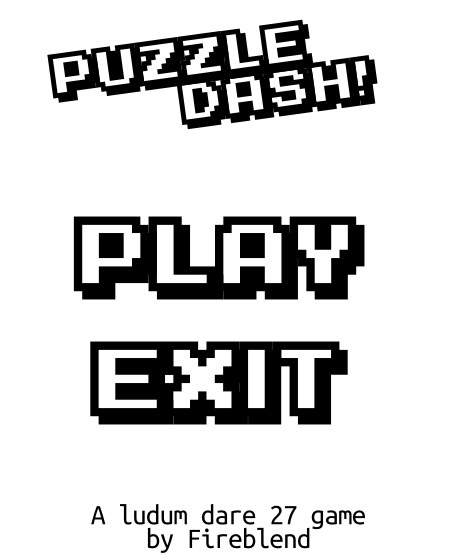
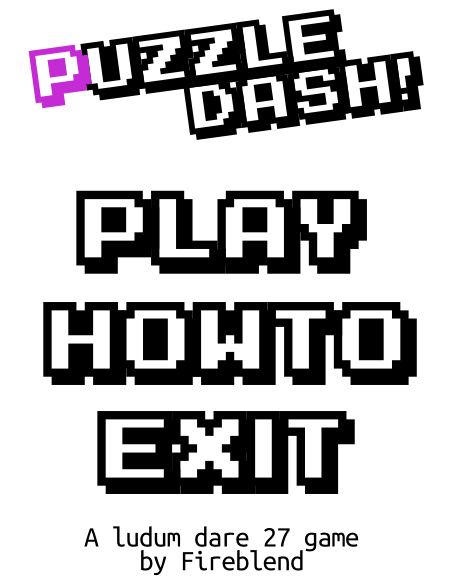
Added tutorial

diff --git a/puzzle-run/src/com/fireblend/puzzlerun/GameScreen.java b/puzzle-run/src/com/fireblend/puzzlerun/GameScreen.java
@@ -6,6 +6,7 @@ import java.util.Random;
 import com.badlogic.gdx.Application;
 import com.badlogic.gdx.Application.ApplicationType;
 import com.badlogic.gdx.Gdx;
+import com.badlogic.gdx.Input;
 import com.badlogic.gdx.InputProcessor;
 import com.badlogic.gdx.Screen;
 import com.badlogic.gdx.audio.Music;
@@ -76,6 +77,7 @@ public class GameScreen  implements Screen, InputProcessor{
 	Texture menuTexture;
 	Texture timerTexture;
 	Texture scoreTexture;
+	Texture helpTexture;
 
 	Sound comboSnd;
 	Sound comboSnd2;
@@ -102,6 +104,10 @@ public class GameScreen  implements Screen, InputProcessor{
 	private boolean end;
 	private boolean menu = true;
 	private boolean released = true;
+
+	private boolean navigation = false;
+
+	private boolean howto = false;
 	
 	//Initializes the matrix for a new level
 	public void initGameArea(){
@@ -169,40 +175,43 @@ public class GameScreen  implements Screen, InputProcessor{
 	
 	public GameScreen(PuzzleRun game){
 		this.game = game;
-		
-		yBlock = new Texture(Gdx.files.internal("data/yellow.png"));
-		gBlock = new Texture(Gdx.files.internal("data/green.png"));
-		bBlock = new Texture(Gdx.files.internal("data/blue.png"));
-		pBlock = new Texture(Gdx.files.internal("data/pink.png"));
-		vBlock = new Texture(Gdx.files.internal("data/purple.png"));
-		transBlock = new Texture(Gdx.files.internal("data/trans.png"));
-		greyBlock = new Texture(Gdx.files.internal("data/grey.png"));
-		button = new Texture(Gdx.files.internal("data/button.png"));
-		bombBlock = new Texture(Gdx.files.internal("data/bomb.png"));
-		timerTexture = new Texture(Gdx.files.internal("data/timer.png"));
-		scoreTexture = new Texture(Gdx.files.internal("data/score.png"));
-		plusBlock = new Texture(Gdx.files.internal("data/plus.png"));
-		gameOverTexture = new Texture(Gdx.files.internal("data/end.png"));
-		menuTexture = new Texture(Gdx.files.internal("data/main.png"));
-		
-		buttonSnd = Gdx.audio.newSound(Gdx.files.internal("data/Blip_Select7.mp3"));
-		comboSnd = Gdx.audio.newSound(Gdx.files.internal("data/Pickup_Coin8.mp3"));
-		comboSnd2 = Gdx.audio.newSound(Gdx.files.internal("data/Pickup_Coin6.mp3"));
-		readySnd = Gdx.audio.newSound(Gdx.files.internal("data/Powerup9.mp3"));
-		clockTickSnd = Gdx.audio.newSound(Gdx.files.internal("data/Blip_Select10.mp3"));
-		endSnd = Gdx.audio.newSound(Gdx.files.internal("data/Blip_Select12.mp3"));
 
-		menuMusic = Gdx.audio.newMusic(Gdx.files.internal("data/menuMusic.mp3"));
-		gameMusic = Gdx.audio.newMusic(Gdx.files.internal("data/gameMusic.mp3"));
-		
-		 font = new BitmapFont(Gdx.files.internal("data/font.fnt"),
-		         Gdx.files.internal("data/font.png"), false);
-		 fontWhite = new BitmapFont(Gdx.files.internal("data/fontWhite.fnt"),
-		         Gdx.files.internal("data/fontWhite.png"), false);
+			yBlock = new Texture(Gdx.files.internal("data/yellow.png"));
+			gBlock = new Texture(Gdx.files.internal("data/green.png"));
+			bBlock = new Texture(Gdx.files.internal("data/blue.png"));
+			pBlock = new Texture(Gdx.files.internal("data/pink.png"));
+			vBlock = new Texture(Gdx.files.internal("data/purple.png"));
+			transBlock = new Texture(Gdx.files.internal("data/trans.png"));
+			greyBlock = new Texture(Gdx.files.internal("data/grey.png"));
+			button = new Texture(Gdx.files.internal("data/button.png"));
+			bombBlock = new Texture(Gdx.files.internal("data/bomb.png"));
+			timerTexture = new Texture(Gdx.files.internal("data/timer.png"));
+			scoreTexture = new Texture(Gdx.files.internal("data/score.png"));
+			plusBlock = new Texture(Gdx.files.internal("data/plus.png"));
+			gameOverTexture = new Texture(Gdx.files.internal("data/end.png"));
+			menuTexture = new Texture(Gdx.files.internal("data/main.png"));
+			helpTexture = new Texture(Gdx.files.internal("data/howto.png"));
+			
+			buttonSnd = Gdx.audio.newSound(Gdx.files.internal("data/Blip_Select7.mp3"));
+			comboSnd = Gdx.audio.newSound(Gdx.files.internal("data/Pickup_Coin8.mp3"));
+			comboSnd2 = Gdx.audio.newSound(Gdx.files.internal("data/Pickup_Coin6.mp3"));
+			readySnd = Gdx.audio.newSound(Gdx.files.internal("data/Powerup9.mp3"));
+			clockTickSnd = Gdx.audio.newSound(Gdx.files.internal("data/Blip_Select10.mp3"));
+			endSnd = Gdx.audio.newSound(Gdx.files.internal("data/Blip_Select12.mp3"));
+	
+			menuMusic = Gdx.audio.newMusic(Gdx.files.internal("data/menuMusic.mp3"));
+			gameMusic = Gdx.audio.newMusic(Gdx.files.internal("data/gameMusic.mp3"));
+			
+			font = new BitmapFont(Gdx.files.internal("data/font.fnt"),
+			         Gdx.files.internal("data/font.png"), false);
+			fontWhite = new BitmapFont(Gdx.files.internal("data/fontWhite.fnt"),
+			         Gdx.files.internal("data/fontWhite.png"), false);
 	}
 
 	@Override
 	public boolean touchUp(int screenX, int screenY, int pointer, int button) {
+		
+		
 		released = true;
 		if(end || menu){return false;}
 		if(pointer == 0 || pointer == 1){
@@ -223,30 +232,27 @@ public class GameScreen  implements Screen, InputProcessor{
 		int heightCorrect2 = (int) (screenY*800.0/Gdx.graphics.getHeight());
 		Gdx.app.log("Adj", screenX/widthCorrect+","+heightCorrect2);
 		if(menu && released){
+			if(howto){
+				howto = false;
+				released = false;
+				return false;
+			}
 			Rectangle startButton;
+			Rectangle howtoButton;
 			Rectangle quitButton;
-			if(Gdx.app.getType() == ApplicationType.Android){
-				startButton = new Rectangle(
-						86,
-						307,
-						310,100);
+			startButton = new Rectangle(
+					80,
+					290,
+					300,90);
+			howtoButton = new Rectangle(
+					60,
+					415,
+					380,80);
 
-				quitButton = new Rectangle(
-						110,
-						450,
-						280,100);
-			}
-			else{
-				startButton = new Rectangle(
-					86,
-					307,
-					310,100);
-
-				quitButton = new Rectangle(
+			quitButton = new Rectangle(
 					110,
-					450,
-					280,100);
-			}
+					525,
+					260,90);
 			if(startButton.contains(screenX/widthCorrect, heightCorrect2)){
 				buttonSnd.play((float) 0.6);
 				menu = false;
@@ -257,9 +263,12 @@ public class GameScreen  implements Screen, InputProcessor{
 				gameMusic.setLooping(true);
 				gameMusic.play();
 			}
-			if(quitButton.contains(screenX/widthCorrect, heightCorrect2)){
+			else if(quitButton.contains(screenX/widthCorrect, heightCorrect2)){
 				buttonSnd.play((float) 0.6);
 				Gdx.app.exit();
+			}
+			else if(howtoButton.contains(screenX/widthCorrect, heightCorrect2)){
+				howto = true;
 			}
 			released = false;
 		}
@@ -336,7 +345,7 @@ public class GameScreen  implements Screen, InputProcessor{
 			return false;
 		}
 		
-		if(pointer == 1){
+		if(pointer == 1 || navigation == true){
 			if(dragX == null){
 				
 				dragX = screenX;
@@ -581,10 +590,16 @@ public class GameScreen  implements Screen, InputProcessor{
 					   Gdx.graphics.getHeight()/2);
 		}
 		else if(menu){
-			batch.draw(menuTexture,20*widthCorrect, 120*widthCorrect, 
+			if(!howto){
+				batch.draw(menuTexture,20*widthCorrect, 70*heightCorrect, 
 					menuTexture.getWidth()*widthCorrect,
 					menuTexture.getHeight()*heightCorrect);
-
+			}
+			else{
+				batch.draw(helpTexture,20*widthCorrect, 70*heightCorrect, 
+						helpTexture.getWidth()*widthCorrect,
+						helpTexture.getHeight()*heightCorrect);
+			}
 		}
 		
 		batch.end();
@@ -633,9 +648,22 @@ public class GameScreen  implements Screen, InputProcessor{
 	@Override
 	public void dispose() {}
 	@Override
-	public boolean keyDown(int keycode) {return false;}
+	public boolean keyDown(int keycode) {
+		if(Gdx.app.getType() != ApplicationType.Android && (keycode == Input.Keys.Z || keycode == Input.Keys.SPACE || keycode == Input.Keys.SHIFT_LEFT)){
+
+			Gdx.app.log("Adj","NAV TRUE");
+			navigation=true;
+		}
+		return false;
+	}
 	@Override
-	public boolean keyUp(int keycode) {return false;}
+	public boolean keyUp(int keycode) {
+		if(Gdx.app.getType() != ApplicationType.Android && (keycode == Input.Keys.Z || keycode == Input.Keys.SPACE || keycode == Input.Keys.SHIFT_LEFT)){
+			Gdx.app.log("Adj","NAV FALSE");
+			navigation=false;
+		}
+		return false;
+	}
 	@Override
 	public boolean keyTyped(char character) {return false;}
 
